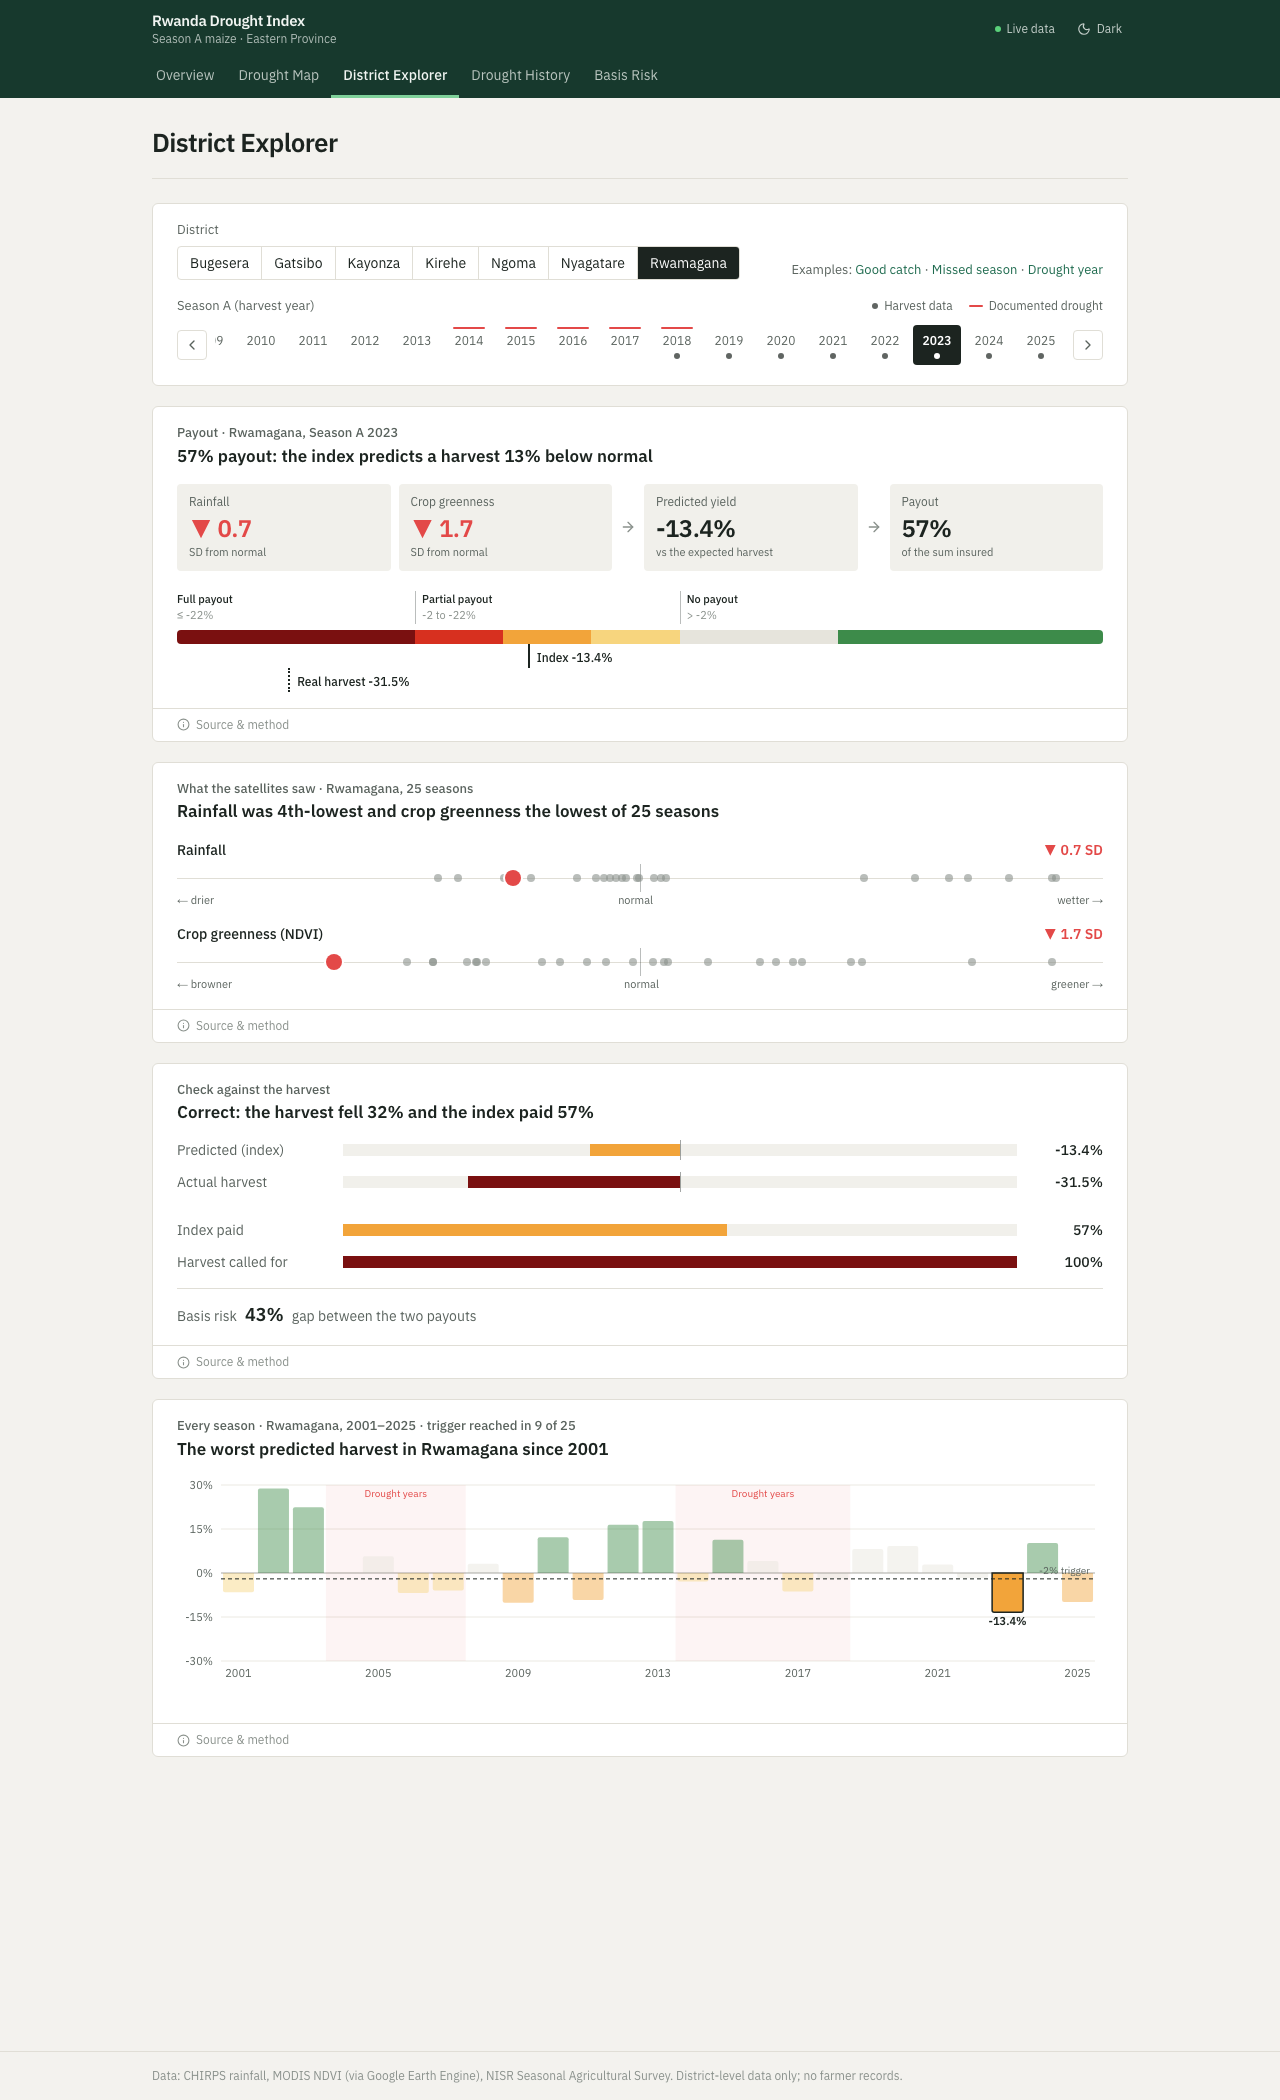
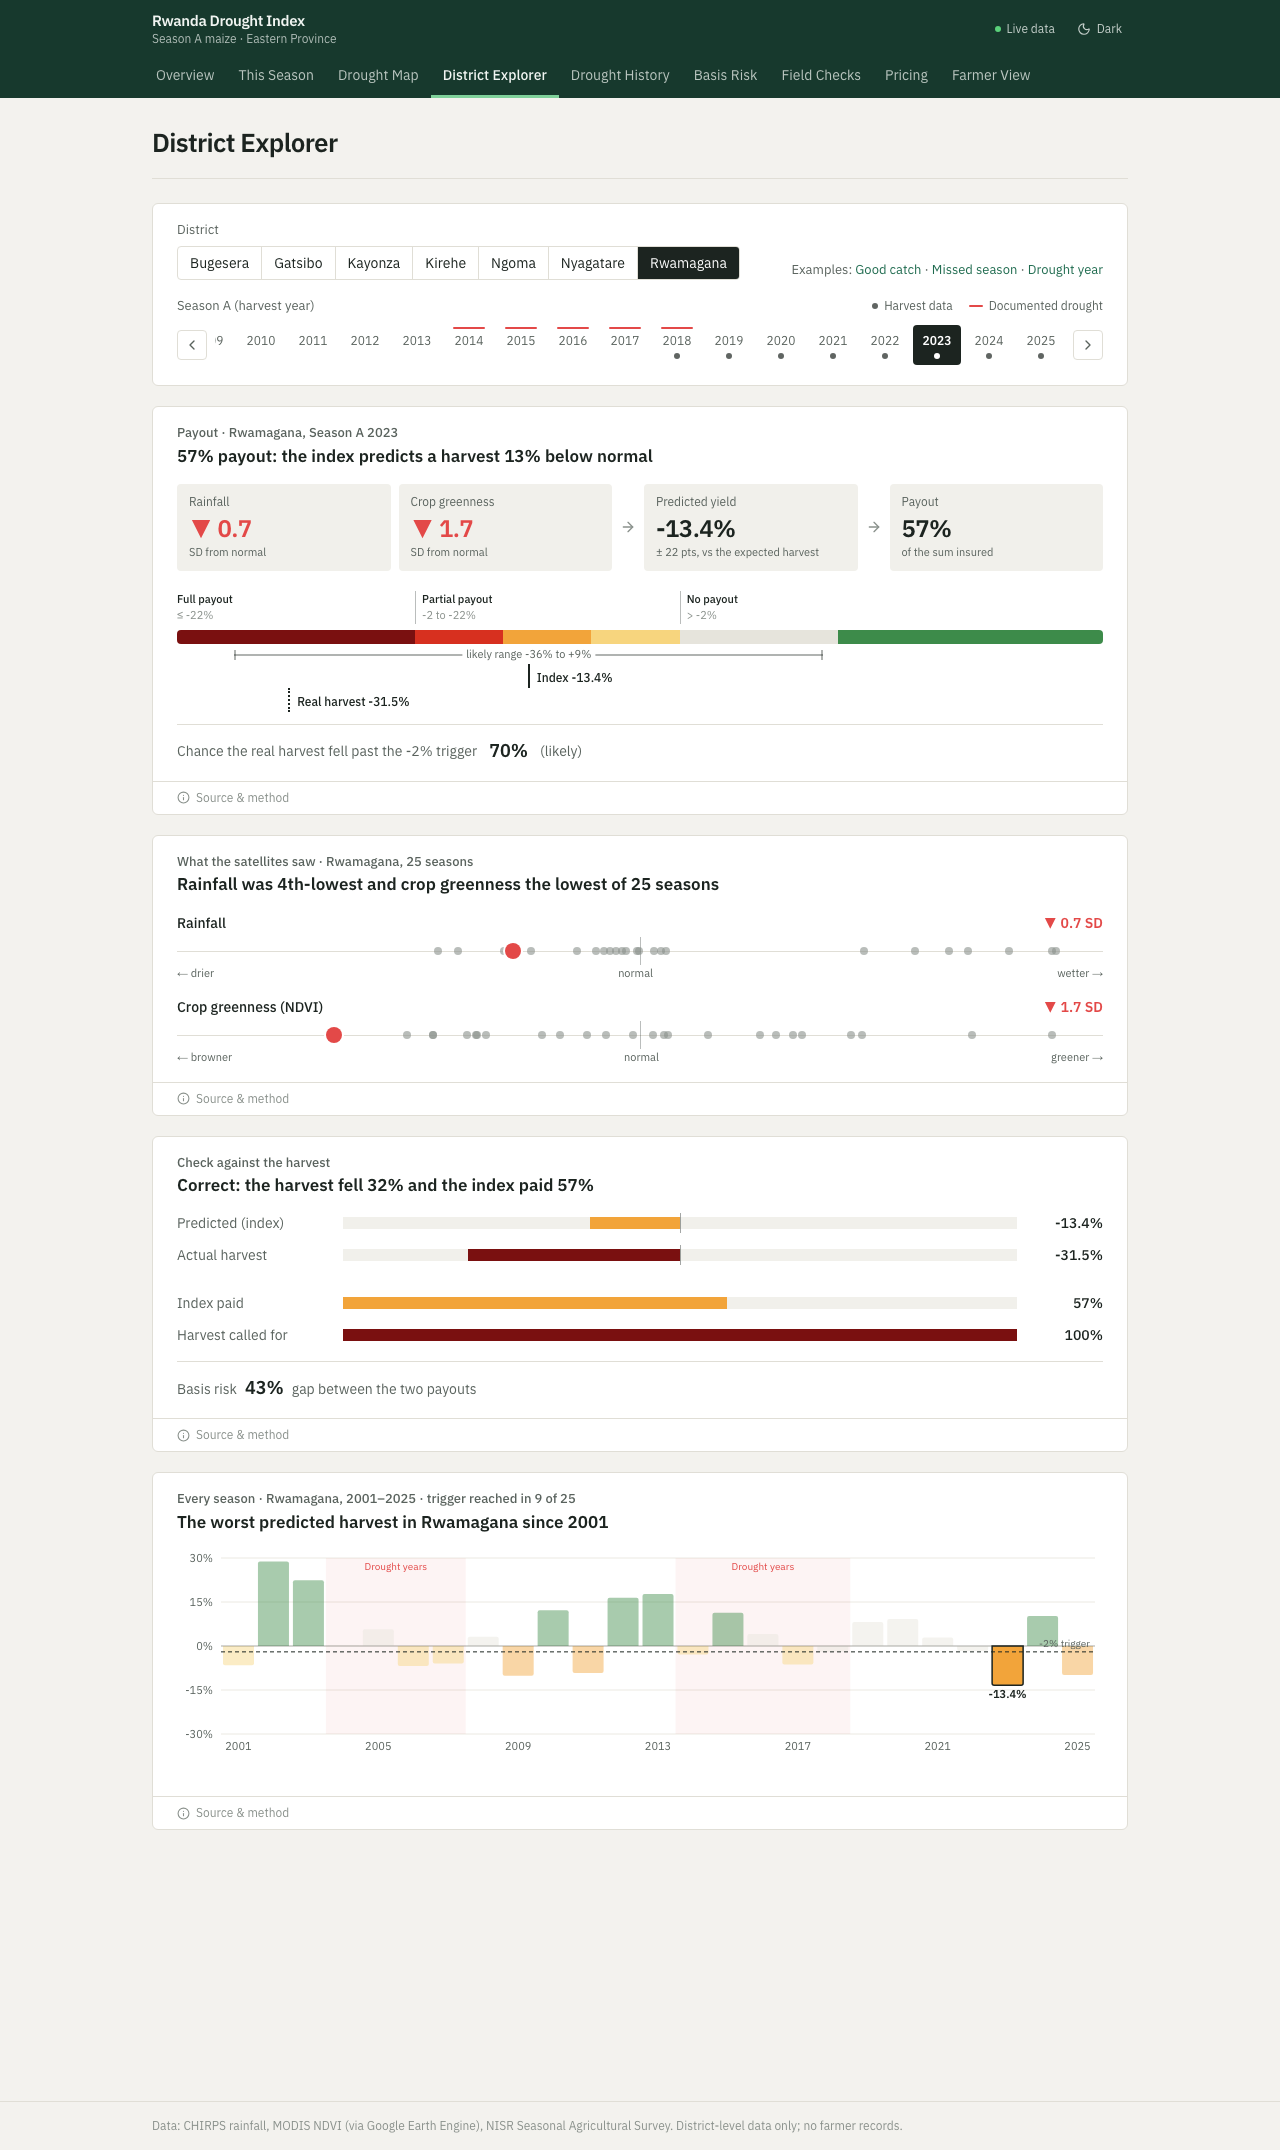
refactor(notebook): update architecture and skip unchanged refreshes
The README's architecture diagram now shows what is built: the offline
notebook and season monitor, the exported files, the API with its
SQLite reports, and the dashboard, with accounts, SMS gateway and
Mobile Money marked as future deployment. New pages, endpoints and
screenshots are added.

update_current_season.py now stops without writing when the data has
not moved on since the last run, so there is nothing to commit.

diff --git a/notebook/update_current_season.py b/notebook/update_current_season.py
@@ -90,6 +90,11 @@ days = (as_of - WIN_START).days + 1
 window_days = (WIN_END - WIN_START).days + 1
 if days < 1:
     raise SystemExit(f"No near-real-time data inside the {WIN_START}–{WIN_END} window yet (latest {as_of}).")
+OUT = EXPORT / "current_season.json"
+previous = json.loads(OUT.read_text()) if OUT.exists() else {}
+if previous.get("season") == SEASON and previous.get("asOf") == as_of.isoformat() and "--skill-curve" not in sys.argv:
+    print(f"No new data since {as_of} (day {days} of the window); nothing to update.")
+    sys.exit(0)
 print(f"Season A {SEASON}: window {WIN_START} to {WIN_END}; data to {as_of} "
       f"(rainfall {rain_last}, greenness {ndvi_last}), day {days} of {window_days}")
 
@@ -131,8 +136,7 @@ print(f"Early read on day {days} against the final index, {skill['seasons']} pas
 
 # The reliability curve: the same test at fixed points of the window. It only uses past
 # seasons, so it is kept from the previous run unless asked for.
-OUT = EXPORT / "current_season.json"
-curve = json.loads(OUT.read_text()).get("skillCurve") if OUT.exists() else None
+curve = previous.get("skillCurve")
 if "--skill-curve" in sys.argv or not curve:
     curve = []
     for day in (15, 31, 46, 61, window_days):

diff --git a/README.md b/README.md
@@ -23,11 +23,13 @@ Kirehe, Ngoma, Nyagatare, Rwamagana), backtested from 2001 to 2025.
 | **Overview** | Opens with a four-step picture of how the index works and a five-stop guided tour on the map (a normal year, the worst year, a drought caught, a drought missed, a false alarm), then a scatter plot of the index against the actual harvest for all 56 district-seasons; then the selected model, trigger (−2%) and exit (−22%), hit rate (50%) and false payout rate (22%), validation results (leave-one-out and leave-one-season-out), and which input drives the index | FR7, FR8, FR9 |
 | **This Season** | Follows the Season A window in progress (now October–December 2026) with near-real-time data: rainfall from NASA GPM IMERG and crop greenness from MODIS daily reflectance, each against the same dates in every season since 2001. Shows a provisional index per district on a map, rainfall and greenness so far against normal, and how far an early read can be trusted (tested on 25 past seasons: 60% agreement with the final decision by mid-October, 78% at the close). Refresh with `notebook/jok/bin/python notebook/update_current_season.py` | — |
 | **Drought Map** | The seven districts on a map, coloured by the predicted yield change, the payout or the basis risk for any season since 2001. Press Play to watch every season from 2001 in turn. Hover a district for its rainfall and greenness anomalies, index and payout; click it to open it in the Explorer | FR1, FR3, FR5, FR10 |
-| **District Explorer** | Pick a district and season; see rainfall and vegetation anomalies, a payout gauge, where the index sits between trigger and exit, and the reason for the payout. For 2018–2025 the index and payout are shown side by side with the actual harvest | FR1, FR3, FR5, FR6, FR7, FR9 |
+| **District Explorer** | Pick a district and season; see rainfall and vegetation anomalies, a payout gauge with the index's likely range (± the model's leave-one-out error) and the chance the harvest really fell past the trigger, where the index sits between trigger and exit, and the reason for the payout. For 2018–2025 the index and payout are shown side by side with the actual harvest | FR1, FR3, FR5, FR6, FR7, FR9 |
 | **Drought History** | The index and payout for every year since 2000, with documented drought years (2003–2006, 2013–2017) shaded, and a district-by-year heatmap: payouts in 54% of drought-year seasons against 23% of other years | FR9 |
 | **Basis Risk** | A "what if" simulator: move the trigger and exit and see how many poor harvests are paid, how many are missed, the false payouts and the basis risk change live. Then basis risk per district (Nyagatare 33% highest, Kayonza 18% lowest) and a season-by-season table filterable by outcome (missed, false payout, paid correctly) | FR10 |
+| **Field Checks** | The safety net for losses the index misses. A district needs a field check when the index paid under 25% but there is evidence of loss: at least 3 farmer reports (saved by the API in SQLite), or at least 45% of NISR-surveyed farms harvesting under half the expected yield. Season A 2019 flags all seven districts. Thresholds are editable | FR10 |
 | **Pricing** | Prices the cover from what the maize is worth: maize area × expected yield × price (RWF 200/kg, the NISR farm-gate median). Set the cover level, loading, subsidy and share of the 118,687 ha insured; see the premium per hectare and for a median farm in each district, premiums against expected payouts, the 1-in-10 season, the reserve needed for the worst season (2006), and a loss ratio for every season since 2001 | — |
-| **Farmer View** | Look up a synthetic demo policy, enter the maize area, and see the crop's value, the cover, the premium and the payout for any season, with the SMS the farmer would receive in English or Kinyarwanda (draft). When the district is not paid, the farmer can report a crop loss, the route for losses the satellites miss | — |
+| **Farmer View** | Look up a synthetic demo policy, enter the maize area, and see the crop's value, the cover, the premium and the payout for any season, with the SMS the farmer would receive in English or Kinyarwanda (draft). When the district is not paid, the farmer can report a crop loss, the route for losses the satellites miss; reports go to Field Checks. A USSD page shows the same cover on a basic phone (`*xxx#` menu: my cover, this season, last result, report a loss) | — |
+| **Term sheet** | A printable one-page contract summary per district (cover, index formula, accuracy, payout schedule, settlement, field-check clause, 2001–2025 record), downloadable as PDF; linked from Pricing | — |
 
 ## Machine learning model
 
@@ -207,6 +209,13 @@ cards that stack vertically, each on its own, and charts that each tell a story.
 ### Farmer View
 ![Farmer View](docs/screenshots/farmer-view.png)
 
+### Field Checks
+![Field Checks](docs/screenshots/field-checks.png)
+
+### Term sheet and USSD menu
+| ![Term sheet](docs/screenshots/term-sheet.png) | ![USSD menu](docs/screenshots/ussd.png) |
+|---|---|
+
 ### Dark mode and mobile
 | Dark mode | Mobile |
 |---|---|
@@ -217,14 +226,47 @@ cards that stack vertically, each on its own, and charts that each tell a story.
 
 ## Architecture
 
-```
-Browser ──► Next.js dashboard (port 3000)
-               │  fetch JSON
-               ▼
-            FastAPI backend (port 8000) ──► calibrated model + results (backend/data/)
-                                                ▲
-                          exported from the calibration notebook
-                          (CHIRPS + MODIS via Google Earth Engine, NISR yields)
+```mermaid
+flowchart LR
+  subgraph Sources["Data sources"]
+    direction TB
+    CH["CHIRPS rainfall<br/>MODIS MOD13Q1 NDVI<br/>(final, 3–6 weeks late)"]
+    NR["NASA GPM IMERG rainfall<br/>MODIS MOD09GA daily NDVI<br/>(near real time)"]
+    NISR["NISR Seasonal Agricultural<br/>Survey, 2017–2025"]
+  end
+
+  subgraph Offline["Offline, on the analyst's computer"]
+    direction TB
+    NB["Calibration notebook<br/>yields, anomalies, Ridge,<br/>trigger and exit, pricing inputs"]
+    MON["Season monitor script<br/>update_current_season.py"]
+  end
+
+  subgraph Server["Docker Compose, one host"]
+    direction TB
+    FILES[("backend/data/<br/>model.json · calibration.csv · seasons.csv<br/>plot_losses.csv · current_season.json · districts")]
+    API["FastAPI backend<br/>applies the saved model and payout rule"]
+    DB[("SQLite<br/>crop-loss reports")]
+    WEB["Next.js dashboard"]
+  end
+
+  CH -- "Earth Engine API" --> NB
+  NISR -- "Stata, SPSS, CSV files" --> NB
+  NR -- "Earth Engine API" --> MON
+  NB -- "exports" --> FILES
+  MON -- "writes" --> FILES
+  FILES --> API
+  API <--> DB
+  WEB -- "JSON over HTTP" --> API
+  WEB --> U1["Analyst, insurer,<br/>programme officer"]
+  WEB --> U2["Farmer view, SMS and<br/>USSD previews (demo)"]
+
+  subgraph Future["Future deployment (not built)"]
+    direction TB
+    F1["PostgreSQL, accounts and roles"]
+    F2["SMS / USSD gateway"]
+    F3["Mobile Money payouts"]
+  end
+  API -.-> Future
 ```
 
 The calibration (Ridge regression, leave-one-out validation, trigger and exit) runs once in the
@@ -241,6 +283,10 @@ formula. This keeps every request fast (NFR1) and the thresholds reproducible (N
 | `GET /api/basis-risk` | Basis risk per district |
 | `GET /api/seasons` | The 56 calibration district-seasons |
 | `GET /api/geo/districts` | District boundaries (FAO GAUL 2025, simplified GeoJSON) for the map |
+| `GET /api/current-season` | The Season A window in progress: provisional index per district from near-real-time data, and how far an early read can be trusted |
+| `GET /api/plot-losses` | Share of NISR-surveyed farms that lost more than half their expected harvest, per district-season |
+| `POST /api/loss-reports` | A farmer reports a crop loss (one report per policy per season counts) |
+| `GET /api/loss-reports/summary` | Crop-loss reports on file, per district-season |
 | `GET /api/health` | Service status |
 
 ### Index formula
